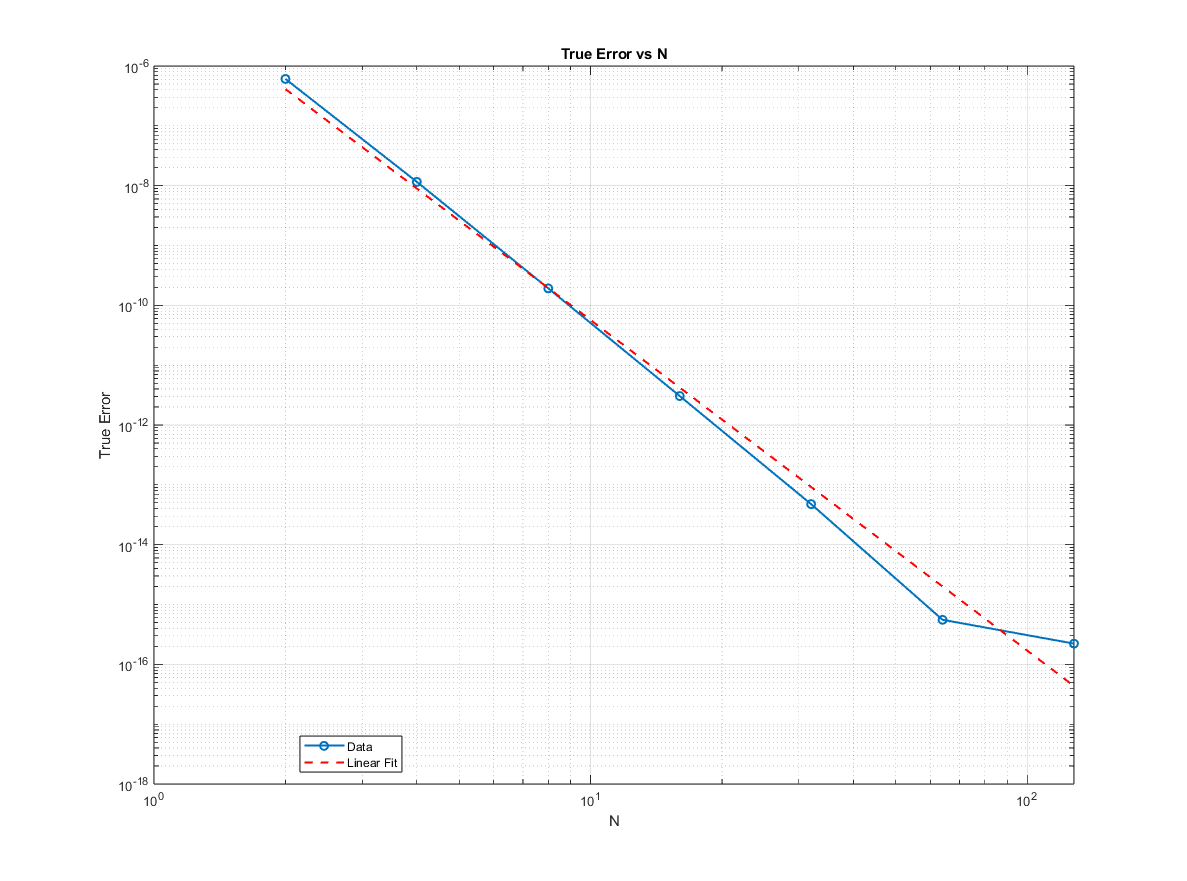
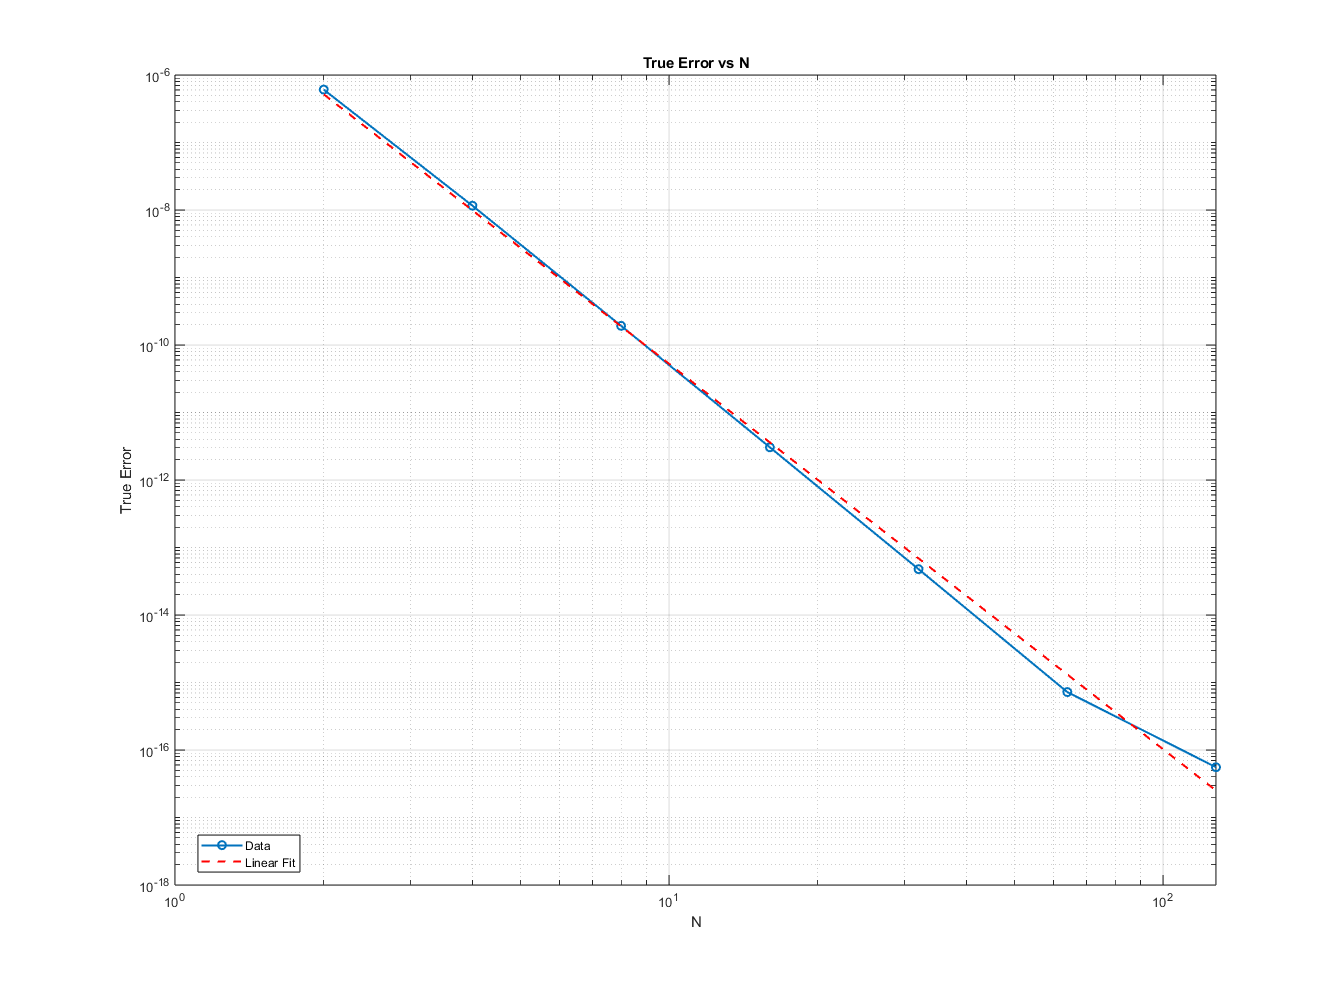
exact sol for q2 is modular

diff --git a/study-set-sols/1/Q2.m b/study-set-sols/1/Q2.m
@@ -6,11 +6,14 @@ format long
 
 a = 0;       
 b = 1;
-% f = @(x) sin(x)./(1+x);    
-f = @(x) sin(x).^3.*cos(x);
+f = @(x) sin(x)./(1+x);  
+
+% a = 0;       
+% b = 2.2;
+% f = @(x) sin(x).^3.*cos(x);
 
 N = 2;       
-exact = 0.284226985512411;   
+exact = integral(f, a, b);   
 n = 4;          
 
 true_errors = zeros(7,1);
@@ -40,10 +43,10 @@ while N<=128 % loop over various total number of segments
     N = N*2;
 end
 
-% Given data
+
+% Plot N vs Error
 N = [2, 4, 8, 16, 32, 64, 128];
 
-% Plot the data
 figure;
 loglog(N, true_errors, 'o-', 'LineWidth', 1.5);
 xlabel('N');
